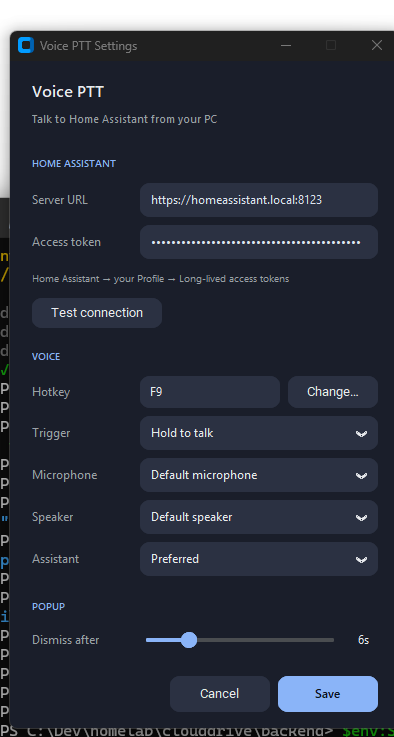
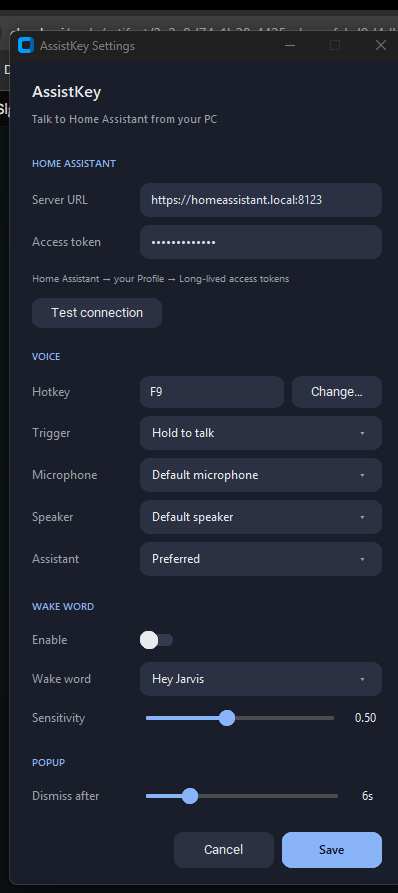
Add optional wake-word listening (openWakeWord)
- wake.py: background listener runs the mic through openWakeWord; on detection
  it fires a callback. Off by default.
- app.py: on wake -> chime, pause the listener (free the mic), run one utterance
  ended by Home Assistant's VAD; resume on done/error. Also pause/resume the
  listener around hotkey utterances so wake + PTT don't fight for the mic.
- config: wake_enabled (default False) / wake_word / wake_sensitivity.
- Settings: new WAKE WORD section — enable switch, wake-word dropdown
  (Hey Jarvis / Alexa / Hey Mycroft / Hey Rhasspy), sensitivity slider.
- requirements: openwakeword + onnxruntime. README + screenshot updated.

diff --git a/overlay.py b/overlay.py
@@ -22,6 +22,7 @@ from pynput import keyboard as kb
 
 import config as cfg
 from assist_client import list_input_devices, list_output_devices, test_credentials
+from wake import WAKE_WORDS
 
 ctk.set_appearance_mode("dark")
 ctk.set_default_color_theme("blue")
@@ -708,6 +709,42 @@ class SettingsDialog:
                      tip="Which Home Assistant voice pipeline (assistant) to use. "
                          "'Preferred' follows your Home Assistant default.")
 
+        # --- Wake word ---
+        self._section(body, "WAKE WORD")
+        wr = ctk.CTkFrame(body, fg_color="transparent")
+        wr.pack(fill="x", pady=4)
+        wlbl = ctk.CTkLabel(wr, text="Enable", text_color=S_MUTED, width=self.LABEL_W, anchor="w",
+                            font=("Segoe UI", 12))
+        wlbl.pack(side="left")
+        self.wake_var = tk.BooleanVar(value=config.wake_enabled)
+        sw = ctk.CTkSwitch(wr, text="", variable=self.wake_var, onvalue=True, offvalue=False,
+                           width=44, progress_color=S_ACCENT, button_color=S_FG, fg_color=S_HOVER)
+        sw.pack(side="left")
+        _wake_tip = ("Also listen for a spoken wake word (like 'Hey Jarvis') — no key needed. "
+                     "Runs locally with openWakeWord; downloads a small model on first enable. "
+                     "Home Assistant's own voice detection ends each command.")
+        for _w in (wlbl, sw):
+            _Tooltip(_w, _wake_tip)
+
+        self.wakeword_map = [(label, name) for name, label in WAKE_WORDS]
+        self.wakeword_var = tk.StringVar()
+        self._option(body, "Wake word", self.wakeword_map, config.wake_word, self.wakeword_var,
+                     tip="Which wake word to listen for.")
+
+        sr = ctk.CTkFrame(body, fg_color="transparent")
+        sr.pack(fill="x", pady=4)
+        ctk.CTkLabel(sr, text="Sensitivity", text_color=S_MUTED, width=self.LABEL_W, anchor="w",
+                     font=("Segoe UI", 12)).pack(side="left")
+        self.sens_var = tk.DoubleVar(value=config.wake_sensitivity)
+        sens = ctk.CTkSlider(sr, from_=0.2, to=0.9, number_of_steps=14, variable=self.sens_var,
+                             command=self._on_sens, progress_color=S_ACCENT, button_color=S_ACCENT,
+                             button_hover_color=S_ACCENT)
+        sens.pack(side="left", fill="x", expand=True, padx=(0, 10))
+        self.sens_label = ctk.CTkLabel(sr, text=f"{config.wake_sensitivity:.2f}", text_color=S_FG,
+                                       width=32, font=("Segoe UI", 12))
+        self.sens_label.pack(side="left")
+        _Tooltip(sens, "Higher = stricter (fewer false triggers, but you must say it more clearly).")
+
         # --- Popup ---
         self._section(body, "POPUP")
         dr = ctk.CTkFrame(body, fg_color="transparent")
@@ -783,6 +820,9 @@ class SettingsDialog:
     def _on_dismiss(self, value):
         self.dismiss_label.configure(text=f"{int(float(value))}s")
 
+    def _on_sens(self, value):
+        self.sens_label.configure(text=f"{float(value):.2f}")
+
     def _test(self):
         url, token = self.url_var.get(), self.token_var.get()
         self.test_result.configure(text="Testing…", text_color=S_MUTED)
@@ -833,6 +873,9 @@ class SettingsDialog:
         self.config.mic_device = self._value_for(self.mic_map, self.mic_var)
         self.config.speaker_device = self._value_for(self.spk_map, self.spk_var)
         self.config.pipeline = self._value_for(self.pipe_map, self.pipe_var)
+        self.config.wake_enabled = bool(self.wake_var.get())
+        self.config.wake_word = self._value_for(self.wakeword_map, self.wakeword_var) or "hey_jarvis"
+        self.config.wake_sensitivity = round(float(self.sens_var.get()), 2)
         self.config.dismiss_seconds = float(max(2, int(self.dismiss_var.get())))
         self.config.save()
         self.on_save()

diff --git a/wake.py b/wake.py
@@ -1,0 +1,102 @@
+"""Wake-word listening for AssistKey (openWakeWord — the same engine HA uses).
+
+A background thread continuously runs the mic through an openWakeWord model. On
+detection it fires `on_wake`; the app then pauses this listener (so it doesn't
+fight the utterance for the mic), runs one Assist utterance ended by Home
+Assistant's own voice-activity detection, and resumes the listener afterwards.
+
+Off by default — the user opts in from Settings.
+"""
+
+from __future__ import annotations
+
+import threading
+import time
+
+import numpy as np
+import sounddevice as sd
+
+SAMPLE_RATE = 16000
+FRAME = 1280  # 80 ms at 16 kHz — openWakeWord's expected chunk
+
+# Wake words shipped with openWakeWord (model name -> friendly label).
+WAKE_WORDS = [
+    ("hey_jarvis", "Hey Jarvis"),
+    ("alexa", "Alexa"),
+    ("hey_mycroft", "Hey Mycroft"),
+    ("hey_rhasspy", "Hey Rhasspy"),
+]
+
+
+class WakeListener:
+    def __init__(self, config, on_wake):
+        self.config = config
+        self.on_wake = on_wake
+        self._running = False
+        self._paused = threading.Event()
+        self._thread = None
+        self._model = None
+        self._loaded_word = None
+        self._downloaded = False
+
+    # ---- lifecycle ----------------------------------------------------------
+
+    def start(self):
+        if self._thread is not None:
+            return
+        self._running = True
+        self._thread = threading.Thread(target=self._run, daemon=True)
+        self._thread.start()
+
+    def stop(self):
+        self._running = False
+
+    def pause(self):
+        self._paused.set()
+
+    def resume(self):
+        self._paused.clear()
+
+    # ---- worker -------------------------------------------------------------
+
+    def _run(self):
+        while self._running:
+            if not self.config.wake_enabled or self._paused.is_set():
+                time.sleep(0.2)
+                continue
+            try:
+                self._ensure_model()
+                self._listen_once()
+            except Exception as exc:  # noqa: BLE001 - keep the thread alive, retry
+                print(f"wake listener error: {exc}")
+                time.sleep(1.5)
+
+    def _ensure_model(self):
+        word = self.config.wake_word
+        if self._model is not None and self._loaded_word == word:
+            return
+        from openwakeword.model import Model
+        from openwakeword.utils import download_models
+        if not self._downloaded:
+            try:
+                download_models()  # idempotent; fetches the ~10 MB model set once
+            except Exception:  # noqa: BLE001
+                pass
+            self._downloaded = True
+        self._model = Model(wakeword_models=[word], inference_framework="onnx")
+        self._loaded_word = word
+
+    def _listen_once(self):
+        """Open the mic and listen until a detection, a pause, or disable."""
+        with sd.RawInputStream(samplerate=SAMPLE_RATE, channels=1, dtype="int16",
+                               blocksize=FRAME, device=self.config.mic_device) as stream:
+            self._model.reset()
+            word = self._loaded_word
+            while (self._running and self.config.wake_enabled
+                   and not self._paused.is_set() and self._loaded_word == self.config.wake_word):
+                data, _ = stream.read(FRAME)
+                frame = np.frombuffer(bytes(data), dtype=np.int16)
+                score = self._model.predict(frame).get(word, 0.0)
+                if score >= self.config.wake_sensitivity:
+                    self.on_wake()  # app pauses us + starts the utterance
+                    return

diff --git a/app.py b/app.py
@@ -27,9 +27,12 @@ import pystray
 from PIL import Image, ImageDraw
 from pynput import keyboard as kb
 
+import winsound
+
 import config as cfg
 from assist_client import AssistClient
 from overlay import Overlay
+from wake import WakeListener
 
 IDLE_COL = (154, 160, 166)
 ACTIVE_COL = (129, 201, 149)
@@ -148,6 +151,7 @@ class App:
 
         self.hotkey = HotkeyListener(self.config, on_down=self._hotkey_down,
                                      on_up=self._hotkey_up)
+        self.wake = WakeListener(self.config, on_wake=self._on_wake)
         self.icon = pystray.Icon(
             "assistkey", make_icon(IDLE_COL), "AssistKey",
             menu=pystray.Menu(
@@ -161,6 +165,7 @@ class App:
     def run(self):
         threading.Thread(target=self._run_loop, daemon=True).start()
         self.hotkey.start()
+        self.wake.start()  # idles until wake_enabled is set in Settings
         self.icon.run_detached()
         self.root.after(20, self._drain)
         if not self.config.is_configured():
@@ -191,10 +196,22 @@ class App:
     # ---- hotkey -> asyncio --------------------------------------------------
 
     def _hotkey_down(self):
+        if self.config.wake_enabled:
+            self.wake.pause()  # free the mic for the utterance
         asyncio.run_coroutine_threadsafe(self.client.start_utterance(), self.loop)
 
     def _hotkey_up(self):
         self.loop.call_soon_threadsafe(self.client.signal_release)
+
+    def _on_wake(self):
+        # Runs on the wake thread: pause listening, chime, run one utterance.
+        # No key release — Home Assistant's VAD ends the utterance.
+        self.wake.pause()
+        try:
+            winsound.Beep(760, 110)
+        except Exception:  # noqa: BLE001
+            pass
+        asyncio.run_coroutine_threadsafe(self.client.start_utterance(), self.loop)
 
     # ---- UI queue drain (main thread) --------------------------------------
 
@@ -229,10 +246,12 @@ class App:
         elif name == "error":
             self.icon.icon = make_icon(IDLE_COL)
             self.hotkey.mark_idle()
+            self.wake.resume()  # resume wake-word listening (no-op if it wasn't paused)
             self.overlay.error(args[0])
         elif name == "done":
             self.icon.icon = make_icon(IDLE_COL)
             self.hotkey.mark_idle()
+            self.wake.resume()
             self.overlay.done()
         elif name == "status":
             self.icon.title = f"AssistKey — {args[0]}"

diff --git a/config.py b/config.py
@@ -55,6 +55,9 @@ class Config:
     ha_token: str = ""                     # HA long-lived access token
     hotkey: list[str] = field(default_factory=lambda: ["f9"])
     trigger_mode: str = "hold"             # "hold" (press-and-hold) or "toggle" (tap on/off)
+    wake_enabled: bool = False             # listen for a wake word (openWakeWord)
+    wake_word: str = "hey_jarvis"          # openWakeWord model name
+    wake_sensitivity: float = 0.5          # 0–1 detection threshold (higher = stricter)
     mic_device: int | None = None          # sounddevice index; None = default
     speaker_device: int | None = None      # sounddevice index; None = default
     pipeline: str | None = None            # HA pipeline id; None = preferred
@@ -91,6 +94,9 @@ class Config:
             "ha_token": self.ha_token,
             "hotkey": self.hotkey,
             "trigger_mode": self.trigger_mode,
+            "wake_enabled": self.wake_enabled,
+            "wake_word": self.wake_word,
+            "wake_sensitivity": self.wake_sensitivity,
             "mic_device": self.mic_device,
             "speaker_device": self.speaker_device,
             "pipeline": self.pipeline,

diff --git a/README.md b/README.md
@@ -17,6 +17,10 @@ is spoken aloud.
 ## Features
 
 - **Hold-to-talk** (default) or **tap-to-toggle** on a configurable hotkey.
+- **Optional wake word** (off by default) — say "Hey Jarvis" (or Alexa / Hey
+  Mycroft / Hey Rhasspy) to talk hands-free. Runs locally with
+  [openWakeWord](https://github.com/dscripka/openWakeWord); Home Assistant's own
+  voice-activity detection ends each command.
 - **Streaming UI** — popups slide up from the bottom-middle of whichever monitor
   your cursor is on: Listening → Thinking (with your recognised words) → the
   streaming reply, then it slides away.
@@ -80,6 +84,8 @@ Put a shortcut to **`AssistKey.vbs`** in your Startup folder
 | **Trigger** | *Hold to talk* (hold while speaking) or *Tap to toggle* (tap on, tap off). |
 | **Microphone / Speaker** | Input and output devices, or the system defaults. |
 | **Assistant** | Which HA pipeline to use; *Preferred* follows your HA default. |
+| **Wake word** | Enable hands-free listening and pick the word (Hey Jarvis / Alexa / …). Off by default; downloads a small local model on first enable. |
+| **Sensitivity** | Wake-word detection threshold — higher is stricter (fewer false triggers). |
 | **Dismiss after** | How long a reply popup lingers before sliding away. |
 
 Settings are saved to `config.json` next to the app and applied immediately —
@@ -105,6 +111,7 @@ silence detection).
 |---|---|
 | `app.py` | Entry point: tray, hotkey, asyncio loop, single-instance, GUI wiring. |
 | `assist_client.py` | Async HA Assist pipeline client: audio capture, streaming, playback. |
+| `wake.py` | Optional wake-word listener (openWakeWord). |
 | `overlay.py` | The popup overlay + the settings dialog. |
 | `config.py` | `config.json` load/save + credential resolution + hotkey serialization. |
 | `tests/` | Automated tests (config, hotkey modes, overlay stuck-recovery). |
